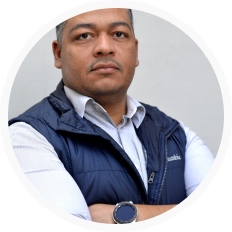
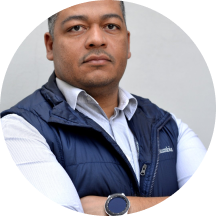
.

diff --git a/desafio2-web-lucas/src/pages/Collaborator/Team/index.jsx b/desafio2-web-lucas/src/pages/Collaborator/Team/index.jsx
@@ -60,7 +60,7 @@ const Team = () => {
               <figure className="profile-table-image m-0 me-4 rounded-circle">
                 <img
                   className="w-100"
-                  src="https://ps.w.org/user-avatar-reloaded/assets/icon-256x256.png?rev=2540745"
+                  src="https://raw.githubusercontent.com/LusquesToodoo/Desafio2-Web-Lucas/main/desafio2-web-lucas/public/images/png/profile.png"
                   alt=""
                 />
               </figure>
@@ -75,7 +75,7 @@ const Team = () => {
               <figure className="profile-table-image m-0 me-4 rounded-circle">
                 <img
                   className="w-100"
-                  src="https://ps.w.org/user-avatar-reloaded/assets/icon-256x256.png?rev=2540745"
+                  src="https://raw.githubusercontent.com/LusquesToodoo/Desafio2-Web-Lucas/main/desafio2-web-lucas/public/images/png/profile.png"
                   alt=""
                 />
               </figure>
@@ -90,7 +90,7 @@ const Team = () => {
               <figure className="profile-table-image m-0 me-4 rounded-circle">
                 <img
                   className="w-100"
-                  src="https://ps.w.org/user-avatar-reloaded/assets/icon-256x256.png?rev=2540745"
+                  src="https://raw.githubusercontent.com/LusquesToodoo/Desafio2-Web-Lucas/main/desafio2-web-lucas/public/images/png/profile.png"
                   alt=""
                 />
               </figure>
@@ -105,7 +105,7 @@ const Team = () => {
               <figure className="profile-table-image m-0 me-4 rounded-circle">
                 <img
                   className="w-100"
-                  src="https://ps.w.org/user-avatar-reloaded/assets/icon-256x256.png?rev=2540745"
+                  src="https://raw.githubusercontent.com/LusquesToodoo/Desafio2-Web-Lucas/main/desafio2-web-lucas/public/images/png/profile.png"
                   alt=""
                 />
               </figure>
@@ -120,7 +120,7 @@ const Team = () => {
               <figure className="profile-table-image m-0 me-4 rounded-circle">
                 <img
                   className="w-100"
-                  src="https://ps.w.org/user-avatar-reloaded/assets/icon-256x256.png?rev=2540745"
+                  src="https://raw.githubusercontent.com/LusquesToodoo/Desafio2-Web-Lucas/main/desafio2-web-lucas/public/images/png/profile.png"
                   alt=""
                 />
               </figure>
@@ -135,7 +135,7 @@ const Team = () => {
               <figure className="profile-table-image m-0 me-4 rounded-circle">
                 <img
                   className="w-100"
-                  src="https://ps.w.org/user-avatar-reloaded/assets/icon-256x256.png?rev=2540745"
+                  src="https://raw.githubusercontent.com/LusquesToodoo/Desafio2-Web-Lucas/main/desafio2-web-lucas/public/images/png/profile.png"
                   alt=""
                 />
               </figure>
@@ -150,7 +150,7 @@ const Team = () => {
               <figure className="profile-table-image m-0 me-4 rounded-circle">
                 <img
                   className="w-100"
-                  src="https://ps.w.org/user-avatar-reloaded/assets/icon-256x256.png?rev=2540745"
+                  src="https://raw.githubusercontent.com/LusquesToodoo/Desafio2-Web-Lucas/main/desafio2-web-lucas/public/images/png/profile.png"
                   alt=""
                 />
               </figure>
@@ -165,7 +165,7 @@ const Team = () => {
               <figure className="profile-table-image m-0 me-4 rounded-circle">
                 <img
                   className="w-100"
-                  src="https://ps.w.org/user-avatar-reloaded/assets/icon-256x256.png?rev=2540745"
+                  src="https://raw.githubusercontent.com/LusquesToodoo/Desafio2-Web-Lucas/main/desafio2-web-lucas/public/images/png/profile.png"
                   alt=""
                 />
               </figure>
@@ -180,7 +180,7 @@ const Team = () => {
               <figure className="profile-table-image m-0 me-4 rounded-circle">
                 <img
                   className="w-100"
-                  src="https://ps.w.org/user-avatar-reloaded/assets/icon-256x256.png?rev=2540745"
+                  src="https://raw.githubusercontent.com/LusquesToodoo/Desafio2-Web-Lucas/main/desafio2-web-lucas/public/images/png/profile.png"
                   alt=""
                 />
               </figure>
@@ -195,7 +195,7 @@ const Team = () => {
               <figure className="profile-table-image m-0 me-4 rounded-circle">
                 <img
                   className="w-100"
-                  src="https://ps.w.org/user-avatar-reloaded/assets/icon-256x256.png?rev=2540745"
+                  src="https://raw.githubusercontent.com/LusquesToodoo/Desafio2-Web-Lucas/main/desafio2-web-lucas/public/images/png/profile.png"
                   alt=""
                 />
               </figure>

diff --git a/desafio2-web-lucas/src/pages/Collaborator/Home/index.jsx b/desafio2-web-lucas/src/pages/Collaborator/Home/index.jsx
@@ -27,7 +27,7 @@ const CollaboratorHome = () => {
       birthdayList.map(() => (
         <li className="d-flex align-item mb-3">
           <figure className="list-birthday-image rounded-circle overflow-hidden m-0 me-4">
-            <img className="w-100" src="https://ps.w.org/user-avatar-reloaded/assets/icon-256x256.png?rev=2540745" alt="" />
+            <img className="w-100" src="https://raw.githubusercontent.com/LusquesToodoo/Desafio2-Web-Lucas/main/desafio2-web-lucas/public/images/png/profile.png" alt="" />
           </figure>
           <div>
             <p className="body-2 text-primary-600 mb-1">
@@ -75,7 +75,7 @@ const CollaboratorHome = () => {
               <li className="news-list-item px-3 rounded-1 d-flex align-items-center justify-content-between shadow-sm mb-2">
                 <div className="d-flex align-items-center">
                   <figure className="list-report-image rounded-circle overflow-hidden m-0 me-4">
-                    <img className="w-100" src="https://ps.w.org/user-avatar-reloaded/assets/icon-256x256.png?rev=2540745" alt="" />
+                    <img className="w-100" src="https://raw.githubusercontent.com/LusquesToodoo/Desafio2-Web-Lucas/main/desafio2-web-lucas/public/images/png/profile.png" alt="" />
                   </figure>
                   <div>
                     <p className="body-2 text-primary-600 mb-1">
@@ -100,7 +100,7 @@ const CollaboratorHome = () => {
               <li className="news-list-item px-3 rounded-1 d-flex align-items-center justify-content-between shadow-sm mb-2">
                 <div className="d-flex align-items-center">
                   <figure className="list-report-image rounded-circle overflow-hidden m-0 me-4">
-                    <img className="w-100" src="https://ps.w.org/user-avatar-reloaded/assets/icon-256x256.png?rev=2540745" alt="" />
+                    <img className="w-100" src="https://raw.githubusercontent.com/LusquesToodoo/Desafio2-Web-Lucas/main/desafio2-web-lucas/public/images/png/profile.png" alt="" />
                   </figure>
                   <div>
                     <p className="body-2 text-primary-600 mb-1">
@@ -125,7 +125,7 @@ const CollaboratorHome = () => {
               <li className="news-list-item px-3 rounded-1 d-flex align-items-center justify-content-between shadow-sm mb-2">
                 <div className="d-flex align-items-center">
                   <figure className="list-report-image rounded-circle overflow-hidden m-0 me-4">
-                    <img className="w-100" src="https://ps.w.org/user-avatar-reloaded/assets/icon-256x256.png?rev=2540745" alt="" />
+                    <img className="w-100" src="https://raw.githubusercontent.com/LusquesToodoo/Desafio2-Web-Lucas/main/desafio2-web-lucas/public/images/png/profile.png" alt="" />
                   </figure>
                   <div>
                     <p className="body-2 text-primary-600 mb-1">
@@ -150,7 +150,7 @@ const CollaboratorHome = () => {
               <li className="news-list-item px-3 rounded-1 d-flex align-items-center justify-content-between shadow-sm">
                 <div className="d-flex align-items-center">
                   <figure className="list-report-image rounded-circle overflow-hidden m-0 me-4">
-                    <img className="w-100" src="https://ps.w.org/user-avatar-reloaded/assets/icon-256x256.png?rev=2540745" alt="" />
+                    <img className="w-100" src="https://raw.githubusercontent.com/LusquesToodoo/Desafio2-Web-Lucas/main/desafio2-web-lucas/public/images/png/profile.png" alt="" />
                   </figure>
                   <div>
                     <p className="body-2 text-primary-600 mb-1">

diff --git a/desafio2-web-lucas/src/pages/Collaborator/Profile/index.jsx b/desafio2-web-lucas/src/pages/Collaborator/Profile/index.jsx
@@ -475,7 +475,7 @@ const HeaderProfile = () => {
         <div className="profile-info-header-cover">
           <figure>
             <img
-              src="https://c4.wallpaperflare.com/wallpaper/415/247/651/bb-8-jakku-robot-star-wars-wallpaper-preview.jpg"
+              src="https://raw.githubusercontent.com/LusquesToodoo/Desafio2-Web-Lucas/main/desafio2-web-lucas/public/images/png/Cover.png"
               alt="capa"
             />
           </figure>
@@ -491,7 +491,7 @@ const HeaderProfile = () => {
               <figure className="profile-info-image m-0">
                 <img
                   className="w-100"
-                  src="https://ps.w.org/user-avatar-reloaded/assets/icon-256x256.png?rev=2540745"
+                  src="https://raw.githubusercontent.com/LusquesToodoo/Desafio2-Web-Lucas/main/desafio2-web-lucas/public/images/png/profile.png"
                   alt="perfil"
                 />
               </figure>

diff --git a/desafio2-web-lucas/src/pages/Collaborator/SidebarCollaborator/index.jsx b/desafio2-web-lucas/src/pages/Collaborator/SidebarCollaborator/index.jsx
@@ -231,7 +231,7 @@ const Sidebar = ({ menuSpace }) => {
                 <figure className="user-image rounded-circle overflow-hidden m-0 me-3">
                   <img
                     className="w-100"
-                    src="https://ps.w.org/user-avatar-reloaded/assets/icon-256x256.png?rev=2540745"
+                    src="https://raw.githubusercontent.com/LusquesToodoo/Desafio2-Web-Lucas/main/desafio2-web-lucas/public/images/png/profile.png"
                     alt=""
                   />
                 </figure>

diff --git a/desafio2-web-lucas/src/pages/Collaborator/Organograma/index.jsx b/desafio2-web-lucas/src/pages/Collaborator/Organograma/index.jsx
@@ -5,7 +5,7 @@ const CardOrganograma = () => {
   return (
     <div className="card-organograma bg-primary-50 d-flex pe-1 py-2 gap-2">
       <figure className="card-organograma-image shadow-lg bg-primary-600 m-0">
-        <img></img>
+        <img src="https://raw.githubusercontent.com/LusquesToodoo/Desafio2-Web-Lucas/main/desafio2-web-lucas/public/images/png/profile.png" alt="" />
       </figure>
 
       <div className="d-flex flex-column g-1 pe-4">

diff --git a/desafio2-web-lucas/src/pages/Collaborator/Organograma/style.scss b/desafio2-web-lucas/src/pages/Collaborator/Organograma/style.scss
@@ -22,13 +22,17 @@
   border-right: solid 2px #adadb2;
 }
 .card-organograma-image {
-  width: 50px;
-  height: 50px;
+  opacity: 0.5;
   border-radius: 50px;
+  height: 50px;
+  width: 50px;
+  & img {
+    width: 50px;
+  }
 }
 
-.organograma-navigation{
-  p{
+.organograma-navigation {
+  p {
     cursor: pointer;
   }
 }

diff --git a/desafio2-web-lucas/src/pages/Collaborator/Home/style.scss b/desafio2-web-lucas/src/pages/Collaborator/Home/style.scss
@@ -96,7 +96,6 @@
     & .list-birthday-image {
       height: 48px;
       width: 48px;
-      background-color: red;
     }
   }
 }
